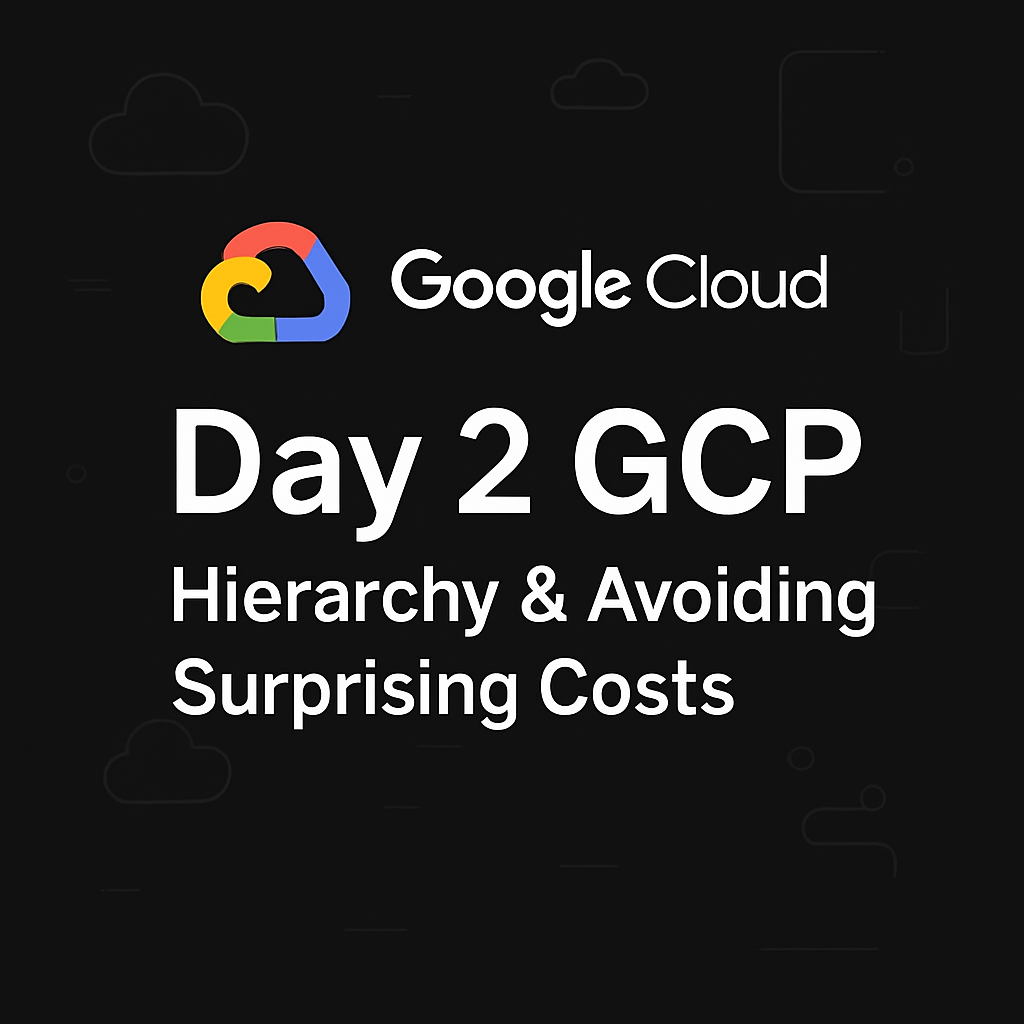
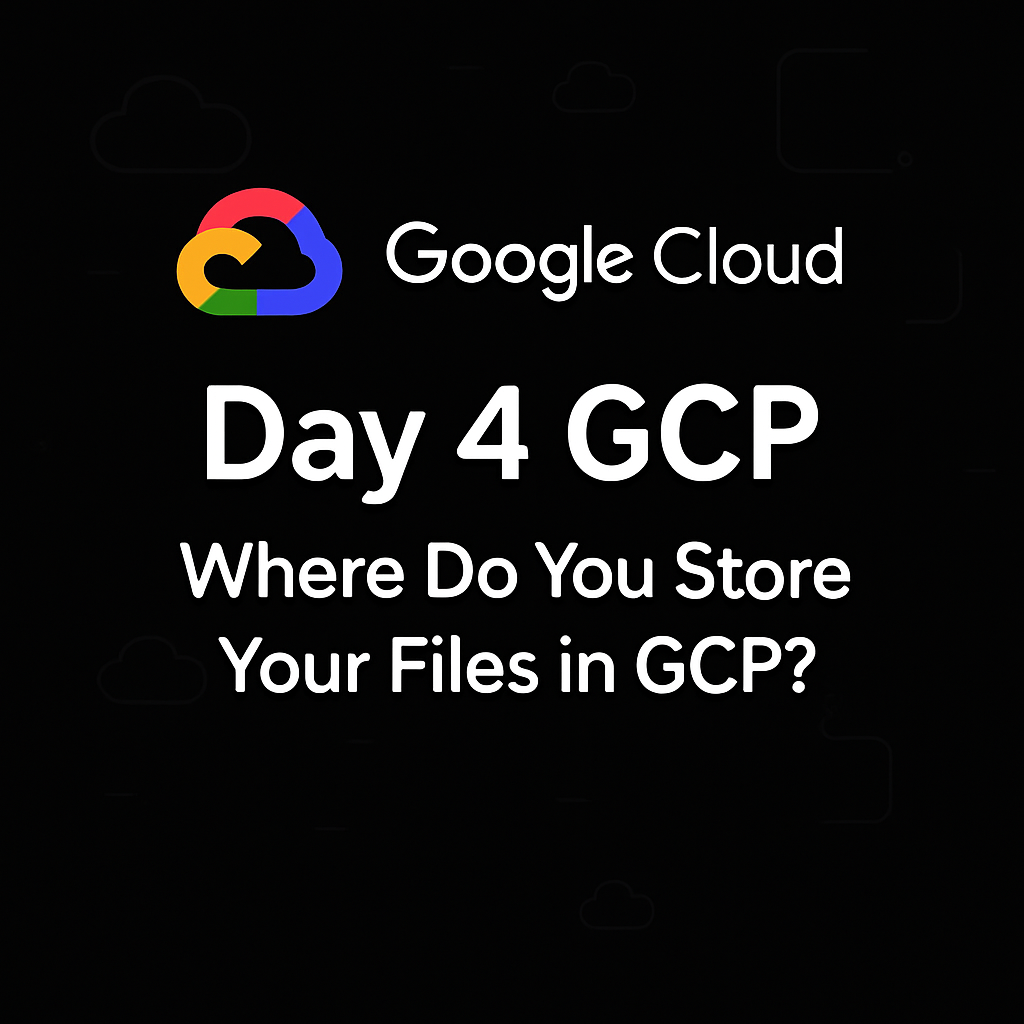
GITBOOK-11: No subject

Changed region(s): [[0.1562, 0.375, 0.875, 0.7188], [0.375, 0.2188, 0.8438, 0.3438], [0.1562, 0.1875, 0.3438, 0.3438]]

diff --git a/day-4-where-do-you-store-your-files-in-gcp.md b/day-4-where-do-you-store-your-files-in-gcp.md
@@ -1,0 +1,44 @@
+# Day-4 Where Do You Store Your Files in GCP?
+
+_Hey everyone, welcome to Day 4! Today, we're going to talk about something we all need: **storage**. Whether it's photos, videos, or application data, you need a place to keep it. In GCP, you have a few great options, so let's understand what they are and when to use them._
+
+<figure><img src=".gitbook/assets/image (2).png" alt=""><figcaption></figcaption></figure>
+
+#### **1. Cloud Storage: Your "Google Drive" for Everything**
+
+The simplest way to think about **Google Cloud Storage** is that it's like a massive, super-powered Google Drive or Dropbox. It's a place where you can store pretty much any kind of file or object.
+
+You store your files in something called a **bucket**. You can think of a bucket as a main folder. A key thing to remember is that bucket names have to be **globally unique** meaning no one else in the entire world can have a bucket with the same name as yours!
+
+_**Key takeaway:**_ _Cloud Storage is for unstructured data_&#x20;
+
+_things like images, videos, backups, and log files. It's incredibly scalable and you only pay for what you store._
+
+#### **2. Storage Classes: How to Save Money**
+
+Not all data is the same. Some files you need instantly, while others you might only look at once a year. Cloud Storage lets you choose a "Storage Class" for your data to save money.
+
+* _**Standard:**_ This is for "hot" data that you access all the time, like images for a popular website. It's the fastest but costs the most to store.
+* _**Nearline:**_ For data you access less than once a month, like monthly backups. Storage is cheaper, but there's a small fee to retrieve the data.
+* _**Coldline:**_ For data you access less than once every 90 days. Storage is even cheaper.
+* _**Archive:**_ This is the cheapest option, for long term "cold" storage, like legal archives or data you might need years from now. You access it less than once a year.
+
+_**Key takeaway:**_ _By choosing the right storage class based on how often you need your data, you can significantly cut down your storage costs._
+
+#### **3. Persistent Disk: The Hard Drive for Your VM**
+
+In the last lesson, we talked about Compute Engine and VMs. Well, a **Persistent Disk** is the hard drive that attaches to your VM. It's where you install your operating system and store the files that your application needs to access quickly.
+
+It's called "persistent" because the data stays there even if you shut down or delete your VM. You can think of it like an external hard drive that you can plug into different computers.
+
+_**Key takeaway:**_ _Persistent Disk is block storage that acts as the local hard drive for your Virtual Machines. It's fast and reliable for your active applications._
+
+#### **4. Filestore: A Shared Folder for Your VMs**
+
+Imagine you have multiple VMs that all need to access and modify the same set of files at the same time. That's where **Filestore** comes in. It provides a managed network file system (NFS) that you can "mount" on multiple VMs.
+
+It works just like a shared network drive in an office. Any change one VM makes to a file is instantly visible to all the other VMs connected to it.
+
+_**Key takeaway:**_ _Use Filestore when you need a shared file system for multiple applications or VMs to use simultaneously._
+
+_And that's a wrap for Day 4! You now have a clear picture of the main storage services in GCP. Next time, we'll dive into another core topic. See you then!_

diff --git a/README.md b/README.md
@@ -1,56 +1,57 @@
-<div align="center">
+---
+icon: hand-wave
+---
 
-# 🌩 GCP with Gnanesh Balusa  
+# Welcome I'm Gnanesh Balusa Data Scientist ML Data Associate 2 @Amazon
+
+## 🌩 GCP with Gnanesh Balusa
+
 **Complete Google Cloud Platform Learning Resource**
 
-[![License](https://img.shields.io/badge/License-Boost%201.0-lightblue.svg)](https://www.boost.org/LICENSE_1_0.txt)
-[![Contributions Welcome](https://img.shields.io/badge/contributions-welcome-brightgreen.svg?style=flat)](CONTRIBUTING.md)
-[![Code of Conduct](https://img.shields.io/badge/code%20of%20conduct-contributor%20covenant-purple.svg)](CODE_OF_CONDUCT.md)
+[![License](https://img.shields.io/badge/License-Boost%201.0-lightblue.svg)](https://www.boost.org/LICENSE_1_0.txt) [![Contributions Welcome](https://img.shields.io/badge/contributions-welcome-brightgreen.svg?style=flat)](CONTRIBUTING.md) [![Code of Conduct](https://img.shields.io/badge/code%20of%20conduct-contributor%20covenant-purple.svg)](CODE_OF_CONDUCT.md)
 
-</div>
+***
 
----
+### What is This?
 
-## What is This?
-
-Curated, practical notes and hands-on guides to master Google Cloud Platform, from basics to advanced.  
+Curated, practical notes and hands-on guides to master Google Cloud Platform, from basics to advanced.\
 Perfect for self-learners, certification prep, and real-world GCP use.
 
----
+***
 
-## Quick Start
+### Quick Start
 
 1. **Start:** [Day 1 - Cloud Fundamentals](basics/day-1-mastering-how-cloud-works.md)
 2. **Practice:** Use GCP Free Tier for examples
 3. **Connect:** Join discussions & contribute
 
----
+***
 
-## Learning Path
+### Learning Path
 
-| Day | Topic | Level |
-|-----|-------|-------|
-| 1   | [Cloud Fundamentals](basics/day-1-mastering-how-cloud-works.md)         | Beginner |
+| Day | Topic                                                                        | Level    |
+| --- | ---------------------------------------------------------------------------- | -------- |
+| 1   | [Cloud Fundamentals](basics/day-1-mastering-how-cloud-works.md)              | Beginner |
 | 2   | [GCP Hierarchy & Cost](day-2-gcp-hierarchy-and-avoiding-surprising-costs.md) | Beginner |
-| 3   | [Compute Engine](day-3-gcp-whats-the-deal-with-compute-engine.md)        | Beginner |
+| 3   | [Compute Engine](day-3-gcp-whats-the-deal-with-compute-engine.md)            | Beginner |
 
----
+***
 
-## How to Contribute
+### How to Contribute
 
-- Read [Contributing Guidelines](CONTRIBUTING.md)
-- Suggest improvements, add content, or report issues
+* Read [Contributing Guidelines](CONTRIBUTING.md)
+* Suggest improvements, add content, or report issues
 
----
+***
 
-## License
+### License
 
-Boost Software License 1.0 — Free to use, modify, and distribute.  
-See [LICENSE](LICENSE) for details.
+Boost Software License 1.0 — Free to use, modify, and distribute.\
+See [LICENSE](LICENSE/) for details.
 
----
+***
 
-## **Architecture Diagram**
+### **Architecture Diagram**
 
 ```mermaid
 graph TD
@@ -63,13 +64,13 @@ graph TD
     G --> A
 ```
 
----
+***
 
-## Connect
+### Connect
 
-- **LinkedIn:** [Gnanesh Balusa](https://www.linkedin.com/in/gnanesh-balusa/)
-- **GitHub:** [gnanesh-16](https://github.com/gnanesh-16)
+* **LinkedIn:** [Gnanesh Balusa](https://www.linkedin.com/in/gnanesh-balusa/)
+* **GitHub:** [gnanesh-16](https://github.com/gnanesh-16)
 
----
+***
 
 **Begin your GCP journey now! 🚀**

diff --git a/day-2-gcp-hierarchy-and-avoiding-surprising-costs.md b/day-2-gcp-hierarchy-and-avoiding-surprising-costs.md
@@ -1,8 +1,8 @@
-# Day-2  GCP Hierarchy & Avoiding Surprising Costs
+# Day-2 GCP Hierarchy & Avoiding Surprising Costs
 
 _Welcome back! Today, for Day 2, we're getting into the really important stuff: how to properly structure everything in GCP and, most importantly, how to make sure you don't get any surprise bills. Chalo, let's get started._
 
-<figure><img src=".gitbook/assets/image (1).png" alt=""><figcaption></figcaption></figure>
+<figure><img src=".gitbook/assets/image (1) (1).png" alt=""><figcaption></figcaption></figure>
 
 #### **1. Why Does This Hierarchy Matter?** _The Plan for Your Cloud Setup_
 

diff --git a/basics/day-1-mastering-how-cloud-works.md b/basics/day-1-mastering-how-cloud-works.md
@@ -16,13 +16,13 @@ layout:
     visible: true
 ---
 
-# Google Cloud DAY-1 (GnaneshBalusa)
+# DAY-1 Mastering How cloud works
 
 ## Day 1 Notes: Your Journey into GCP & Cloud Computing Begins!
 
 _Welcome to the first day of our Google Cloud Platform journey! These notes summarize the key concepts from what i'd learned so far , perfect for getting a solid foundation. Let's dive in._
 
-<figure><img src="../.gitbook/assets/image.png" alt=""><figcaption></figcaption></figure>
+<figure><img src="../.gitbook/assets/image (3).png" alt=""><figcaption></figcaption></figure>
 
 
 

diff --git a/day-3-gcp-whats-the-deal-with-compute-engine.md b/day-3-gcp-whats-the-deal-with-compute-engine.md
@@ -4,7 +4,7 @@
 
 _Alright, welcome to Day 3! Today I'm going to talk about one of the most basic and powerful services in GCP: **Compute Engine**. If you've ever heard of "virtual machines" or "VMs," this is it. Let's break it down in a simple way._
 
-<figure><img src=".gitbook/assets/image (2).png" alt=""><figcaption></figcaption></figure>
+<figure><img src=".gitbook/assets/image (2) (1).png" alt=""><figcaption></figcaption></figure>
 
 #### **1. What Exactly is Compute Engine?** _Your Server in the Cloud_
 

diff --git a/SUMMARY.md b/SUMMARY.md
@@ -8,5 +8,6 @@
 
 ***
 
-* [Day-2  GCP Hierarchy & Avoiding Surprising Costs](day-2-gcp-hierarchy-and-avoiding-surprising-costs.md)
+* [Day-2 GCP Hierarchy & Avoiding Surprising Costs](day-2-gcp-hierarchy-and-avoiding-surprising-costs.md)
 * [Day-3 GCP What's the Deal with Compute Engine?](day-3-gcp-whats-the-deal-with-compute-engine.md)
+* [Day-4 Where Do You Store Your Files in GCP?](day-4-where-do-you-store-your-files-in-gcp.md)
